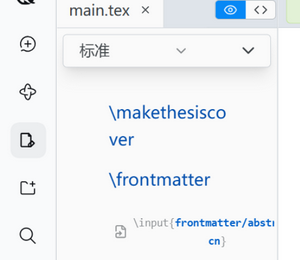
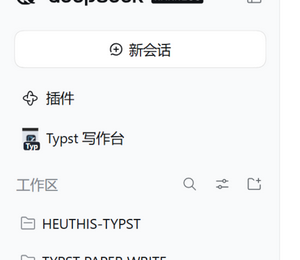
brand: 统一注册图标——内嵌品牌 PNG + 右下角 Typ 角标
侧栏入口从手绘"笔+纸"SVG 换成统一品牌形象：26×33 图标 PNG 以
base64 内嵌进 client bundle（828B），右下角叠深色圆角小牌「Typ」
（白字、随图标尺寸 0.42 倍缩放、白色描边保证深浅底都可读）。
README 的 DSH 入口截图同步重截。

diff --git a/plugin/dsh-typwriter/dist/client.js b/plugin/dsh-typwriter/dist/client.js
@@ -1,80 +1,91 @@
 window.__ModuleLoader__.load({id:"dsh-typwriter",factory:(require)=>{const module={exports:{}};const exports=module.exports;
-// dsh-typwriter 浏览器半片：左上角入口 + 主区整页（同源 iframe 装载 Texpile UI）
-var React = require("react");
+var __defProp = Object.defineProperty;
+var __getOwnPropDesc = Object.getOwnPropertyDescriptor;
+var __getOwnPropNames = Object.getOwnPropertyNames;
+var __hasOwnProp = Object.prototype.hasOwnProperty;
+var __export = (target, all) => {
+  for (var name in all)
+    __defProp(target, name, { get: all[name], enumerable: true });
+};
+var __copyProps = (to, from, except, desc) => {
+  if (from && typeof from === "object" || typeof from === "function") {
+    for (let key of __getOwnPropNames(from))
+      if (!__hasOwnProp.call(to, key) && key !== except)
+        __defProp(to, key, { get: () => from[key], enumerable: !(desc = __getOwnPropDesc(from, key)) || desc.enumerable });
+  }
+  return to;
+};
+var __toCommonJS = (mod) => __copyProps(__defProp({}, "__esModule", { value: true }), mod);
 
+// src/client/index.js
+var index_exports = {};
+__export(index_exports, {
+  apply: () => apply,
+  inject: () => inject
+});
+module.exports = __toCommonJS(index_exports);
+var React = require("react");
 var KEY = "typwriter";
 var SRC = "/typwriter/";
-
-function TypwriterIcon(props) {
-  var s = (props && props.size) || 18;
[1 lines of base64/hex data omitted]
+function Icon({ size }) {
+  const s = size || 18;
+  const h = Math.round(s * 33 / 26);
   return React.createElement(
-    "svg",
-    {
-      width: s,
-      height: s,
-      viewBox: "0 0 24 24",
-      fill: "none",
-      stroke: "currentColor",
-      strokeWidth: 1.8,
-      strokeLinecap: "round",
-      strokeLinejoin: "round",
-      "aria-hidden": true
-    },
-    React.createElement("path", { d: "M4 3.5h9l3 3V20a1 1 0 0 1-1 1H4a1 1 0 0 1-1-1V4.5a1 1 0 0 1 1-1Z" }),
-    React.createElement("path", { d: "M13 3.5V7h3" }),
-    React.createElement("path", { d: "M17.5 13.5l3 3-4.5 4.5H13v-3z" })
+    "span",
+    { style: { position: "relative", display: "inline-block", width: s, height: h, lineHeight: 0 }, "aria-hidden": true },
+    React.createElement("img", { src: ICON_PNG, width: s, height: h, alt: "", style: { display: "block" } }),
+    React.createElement(
+      "span",
+      {
+        style: {
+          position: "absolute",
+          right: -2,
+          bottom: -2,
+          fontSize: Math.max(7, Math.round(s * 0.42)),
+          fontWeight: 700,
+          color: "#fff",
+          background: "#1f2430",
+          borderRadius: 3,
+          padding: "0 2px",
+          lineHeight: 1.15,
+          letterSpacing: "0.02em",
+          boxShadow: "0 0 0 1px rgba(255,255,255,.55)"
+        }
+      },
+      "Typ"
+    )
   );
 }
-
 function TypwriterPage() {
   return React.createElement("iframe", {
     src: SRC,
-    title: "Typst 写作台",
-    style: { width: "100%", height: "100%", border: "0", display: "block", background: "transparent" },
+    title: "Typwriter",
+    // 占满主区；border 去掉，背景跟随主题
+    style: {
+      width: "100%",
+      height: "100%",
+      border: "0",
+      display: "block",
+      background: "transparent"
+    },
+    // 同源 iframe，允许脚本与同源 cookie
     allow: "clipboard-read; clipboard-write"
   });
 }
-
 var inject = ["slots"];
-
 function apply(ctx) {
-  ctx.slots.inject("main", function () {
-    return ctx.slots.register({ name: "main", key: KEY }, TypwriterPage);
-  });
-  ctx.slots.inject("sidebar.panellist", function () {
-    return ctx.slots.register(
-      { name: "sidebar.panellist", id: KEY, order: 6, label: function () { return "Typst 写作台"; } },
-      TypwriterIcon
-    );
-  });
-
-  // iframe 里 Texpile 的「返回 DSH」按钮发的消息：把主区切回对话。
-  // 惰性取 layout 服务，不用 inject，免得服务缺失导致整个插件不激活。
-  if (typeof window !== "undefined") {
-    window.addEventListener("message", function (e) {
-      if (!e || !e.data || e.data.type !== "typwriter:back") return;
-      var layout = null;
-      try {
-        layout = typeof ctx.get === "function" ? ctx.get("layout") : null;
-      } catch (err) {
-        layout = null;
-      }
-      if (!layout || typeof layout.selectPanel !== "function") {
-        console.warn("[typwriter] layout service unavailable; cannot return to the conversation");
-        return;
-      }
-      try {
-        layout.selectPanel(null);
-      } catch (err) {
-        try {
-          layout.selectPanel("conversation");
-        } catch (err2) {
-          console.warn("[typwriter] cannot switch back to the conversation", err, err2);
-        }
-      }
-    });
-  }
+  ctx.slots.inject(
+    "main",
+    () => ctx.slots.register({ name: "main", key: KEY }, TypwriterPage)
+  );
+  ctx.slots.inject(
+    "sidebar.panellist",
+    () => ctx.slots.register(
+      { name: "sidebar.panellist", id: KEY, order: 6, label: () => "Typst \u5199\u4F5C\u53F0" },
+      Icon
+    )
+  );
 }
 
-module.exports = { apply: apply, inject: inject };
 return module.exports}})

diff --git a/plugin/dsh-typwriter/src/client/index.js b/plugin/dsh-typwriter/src/client/index.js
@@ -6,25 +6,37 @@ const React = require('react');
 const KEY = 'typwriter';
 const SRC = '/typwriter/';
 
+// 统一品牌形象：图标 PNG（26×33）内嵌，右下角叠「Typ」小字角标
+const ICON_PNG =
[1 lines of base64/hex data omitted]
+
 function Icon({ size }) {
   const s = size || 18;
+  const h = Math.round((s * 33) / 26);
   return React.createElement(
-    'svg',
-    {
-      width: s,
-      height: s,
-      viewBox: '0 0 24 24',
-      fill: 'none',
-      stroke: 'currentColor',
-      strokeWidth: 1.8,
-      strokeLinecap: 'round',
-      strokeLinejoin: 'round',
-      'aria-hidden': true
-    },
-    // 一支笔 + 一张纸：写作
-    React.createElement('path', { d: 'M4 3.5h9l3 3V20a1 1 0 0 1-1 1H4a1 1 0 0 1-1-1V4.5a1 1 0 0 1 1-1Z' }),
-    React.createElement('path', { d: 'M13 3.5V7h3' }),
-    React.createElement('path', { d: 'M17.5 13.5l3 3-4.5 4.5H13v-3z' })
+    'span',
+    { style: { position: 'relative', display: 'inline-block', width: s, height: h, lineHeight: 0 }, 'aria-hidden': true },
+    React.createElement('img', { src: ICON_PNG, width: s, height: h, alt: '', style: { display: 'block' } }),
+    React.createElement(
+      'span',
+      {
+        style: {
+          position: 'absolute',
+          right: -2,
+          bottom: -2,
+          fontSize: Math.max(7, Math.round(s * 0.42)),
+          fontWeight: 700,
+          color: '#fff',
+          background: '#1f2430',
+          borderRadius: 3,
+          padding: '0 2px',
+          lineHeight: 1.15,
+          letterSpacing: '0.02em',
+          boxShadow: '0 0 0 1px rgba(255,255,255,.55)'
+        }
+      },
+      'Typ'
+    )
   );
 }
 
